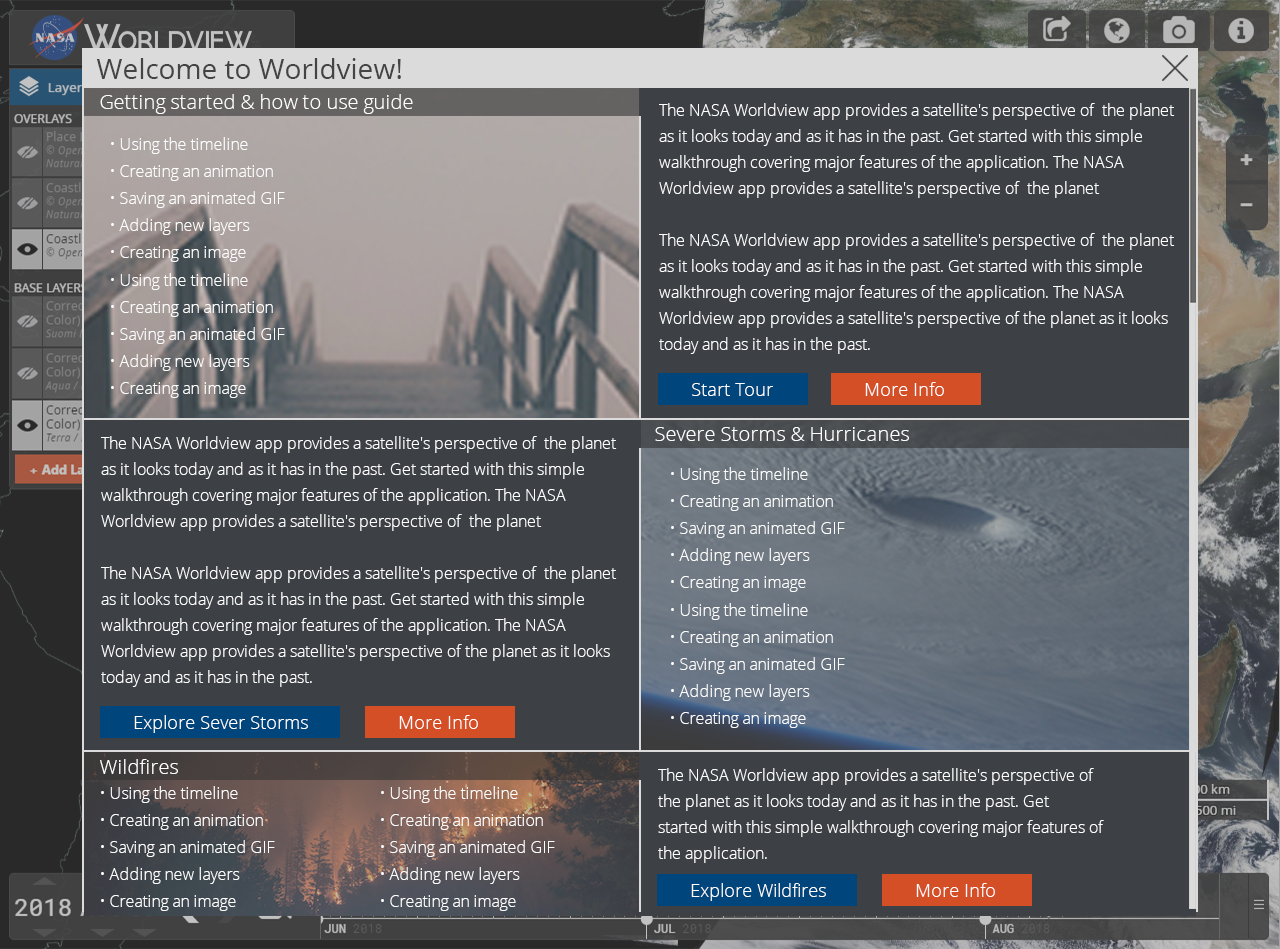
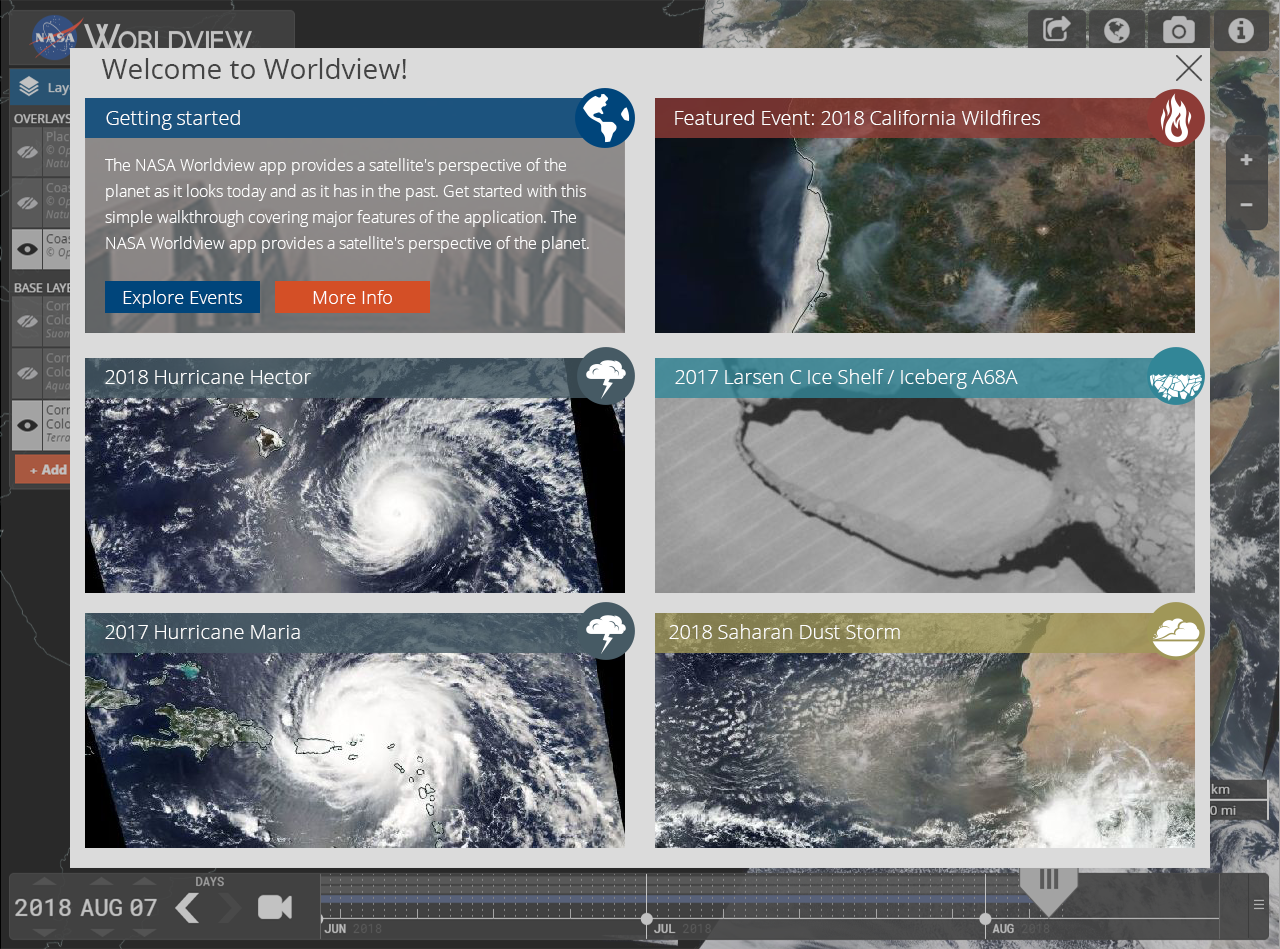
Add v0.3.0a first 4 walkthrough steps (base design)

diff --git a/worldview-tour/walkthrough/v0.3.0a/index.html b/worldview-tour/walkthrough/v0.3.0a/index.html
@@ -14,7 +14,7 @@
 
 <body>
   <a href="#wvtour002"><img id="wvtour001" src="../../designs/v0.3.0a/wv-tour001/wv-tourExtra-Large.png"></img></a>
-  <a href="#wvtour003"><img id="wvtour002" src="../../designs/v0.3.0a/wv-tour002/wv-tourExtra-Large.png"></img></a>
+  <a href="#wvtour003"><img id="wvtour002" src="../../designs/v0.3.0a/wv-tour002/wv-tour-startedExtra-Large.png"></img></a>
   <a href="#wvtour004"><img id="wvtour003" src="../../designs/v0.3.0a/wv-tour003/wv-tour-startedExtra-Large.png"></img></a>
   <a href="#wvtour001"><img id="wvtour004" src="../../designs/v0.3.0a/wv-tour004/wv-tour-startedExtra-Large.png"></img></a>
   <script src="index.js"></script>
